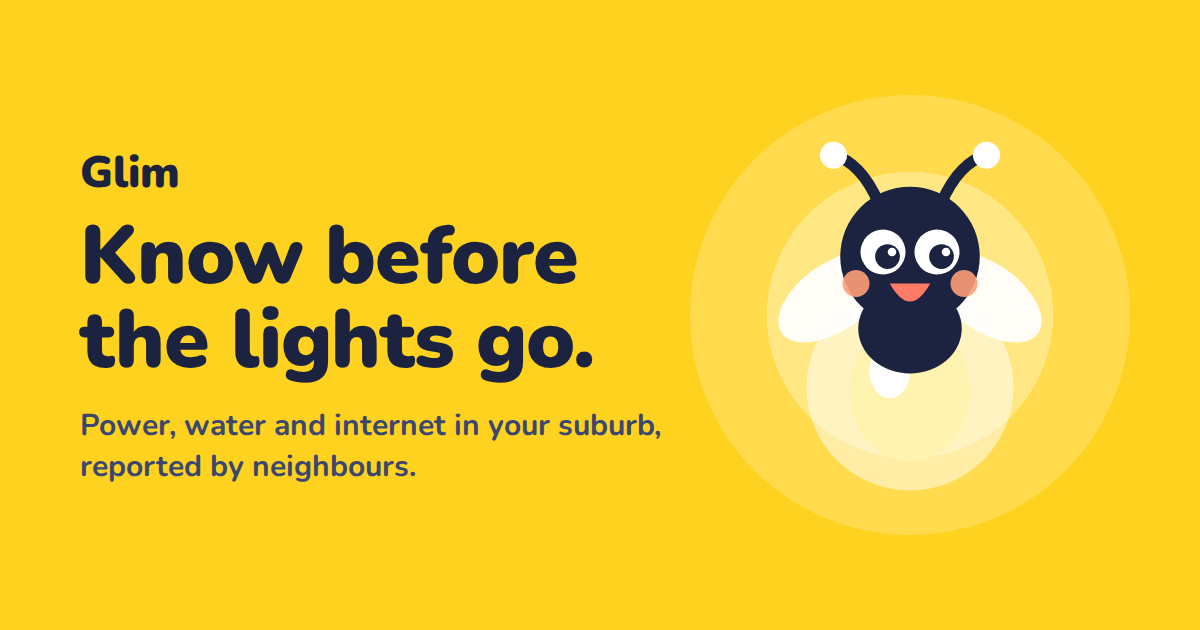
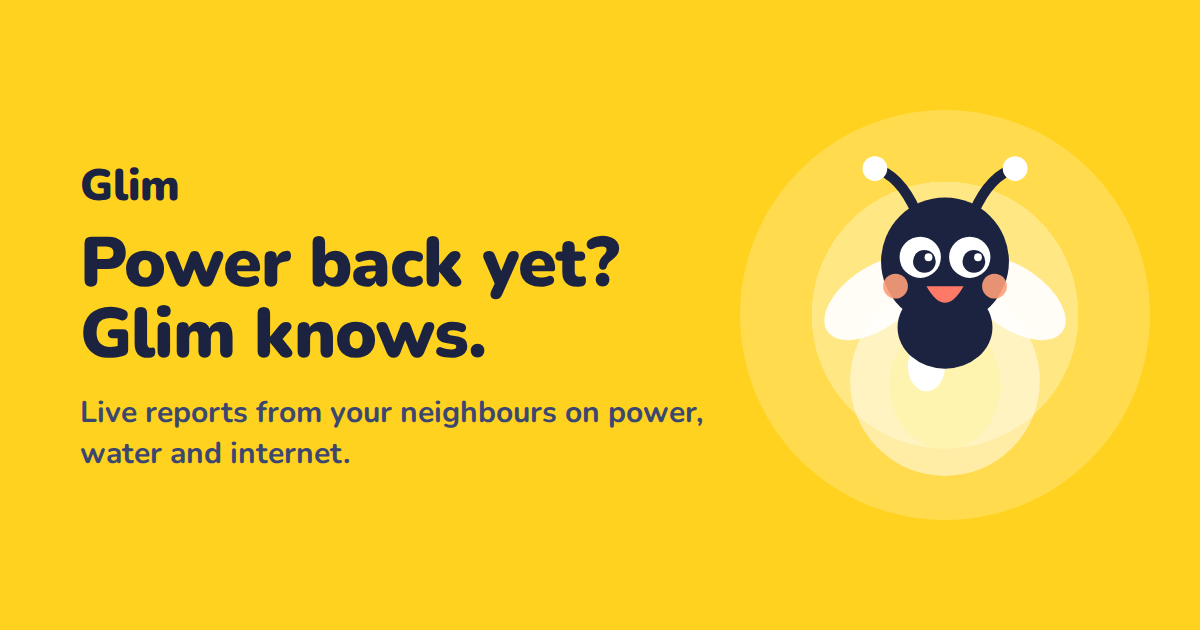
Title the site "Glim · Power back yet?" and update the share image

diff --git a/src/lib/site.ts b/src/lib/site.ts
@@ -16,6 +16,6 @@ export const WHATSAPP_GROUP_URL: string | null = 'https://chat.whatsapp.com/BqK9
 export const POLICY_UPDATED = '29 October 2026';
 
 export const SITE_URL = 'https://getglim.app';
-export const TAGLINE = 'Know before the lights go.';
+export const TAGLINE = 'Power back yet?';
 export const DESCRIPTION =
 	'See if the power, water or internet is on in your suburb, right now. Reported by your neighbours, free, and no account needed.';
